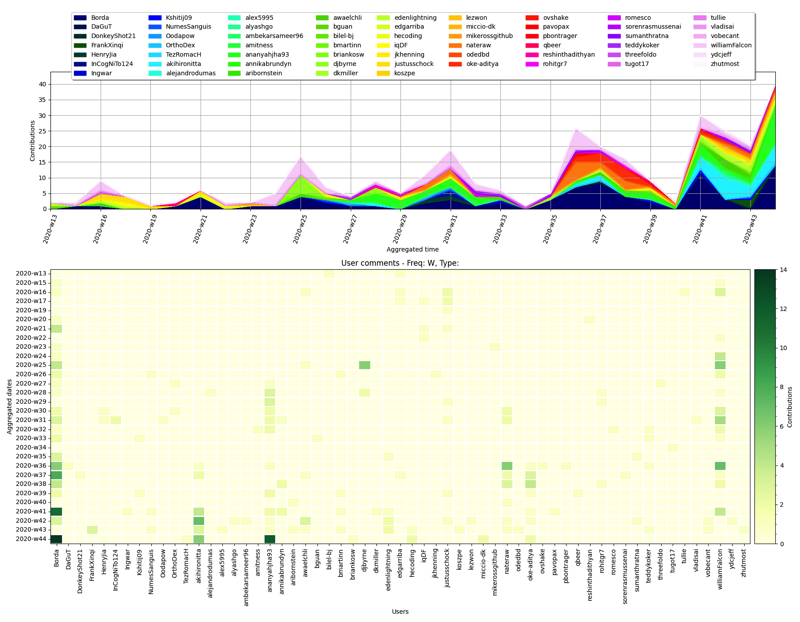
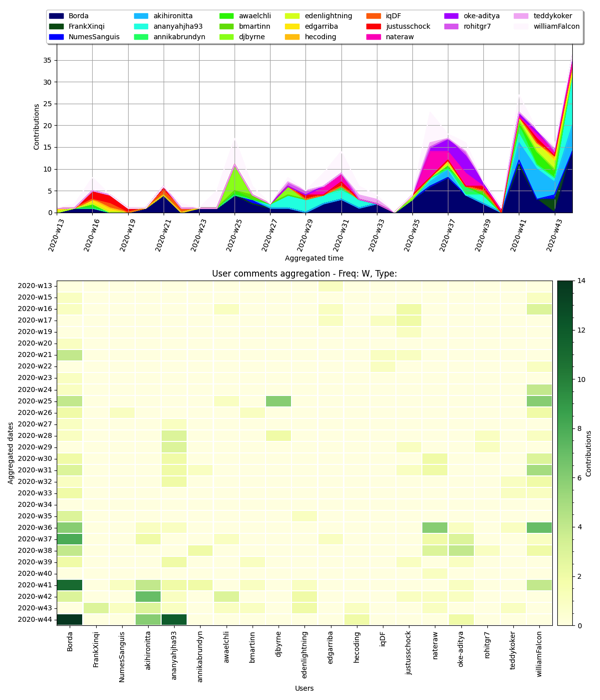
filer contrib

diff --git a/repostats/visual.py b/repostats/visual.py
@@ -9,7 +9,7 @@ import pandas as pd
 from mpl_toolkits.axes_grid1 import make_axes_locatable
 
 
-def draw_comments_timeline(df_comments: pd.DataFrame, fig_size: Tuple[int] = (18, 14), title: str = '') -> plt.Figure:
+def draw_comments_timeline(df_comments: pd.DataFrame, fig_size: Tuple[int] = (12, 14), title: str = '') -> plt.Figure:
     """Draw a figure with two charts, one as cumulative date/contribution and user/time heatmap
 
     :param df_comments: table with aggregated comments
@@ -47,7 +47,7 @@ def draw_comments_timeline(df_comments: pd.DataFrame, fig_size: Tuple[int] = (18
     ax_abar.set_xticklabels(times[::2], rotation=70, ha='center')
     ax_abar.set_xlim(0, len(times) - 1)
     ax_abar.set_ylim(0, max(np.sum(df_comments.values, axis=1)) * 1.1)
-    leg_cols = 9
+    leg_cols = 7
     leg_rows = np.ceil(len(df_comments.columns) / leg_cols)
     ax_abar.legend(
         loc='upper center',
@@ -59,7 +59,7 @@ def draw_comments_timeline(df_comments: pd.DataFrame, fig_size: Tuple[int] = (18
 
     # im = ax.imshow(df_comments.values, vmin=0, interpolation='nearest', cmap='YlGn')
     # see: https://matplotlib.org/3.3.2/gallery/images_contours_and_fields/image_annotated_heatmap.html
-    df_comments.sort_index(ascending=False, inplace=True)
+    df_comments = df_comments.sort_index(ascending=False)
     im = ax_hmap.pcolormesh(
         df_comments.values,
         vmin=0,

diff --git a/repostats/host.py b/repostats/host.py
@@ -152,7 +152,11 @@ class Host:
                                 self.CSV_USER_COMMENTS % (self.HOST_NAME, self.name, freq, parent_type))
         df_comments.to_csv(csv_path)
 
-        fig = draw_comments_timeline(df_comments, title=f'User comments aggregation - Freq: {freq}, Type:{parent_type}')
+        cum_sum = df_comments.sum(axis=0)
+        select_users = list(cum_sum[cum_sum >= self.MIN_CONTRIBUTION_COUNT].index)
+        fig = draw_comments_timeline(
+            df_comments[select_users], title=f'User comments aggregation - Freq: {freq}, Type:{parent_type}'
+        )
         fig_path = os.path.join(self.output_path,
                                 self.PDF_USER_COMMENTS % (self.HOST_NAME, self.name, freq, parent_type))
         fig.savefig(fig_path)
